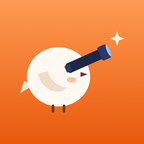
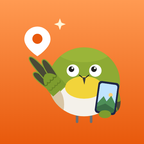
アイコンを指さすメジロの新しい絵に差し替える
Claude-Session: https://claude.ai/code/session_01Cx7faMgYK8yoKukhWgcTPh

Changed region(s): [[0.1389, 0.1667, 0.8611, 0.8611], [0.75, 0.2222, 0.8611, 0.3333], [0.3611, 0.1389, 0.4444, 0.2222]]

diff --git a/photospot/index.html b/photospot/index.html
@@ -286,7 +286,7 @@ a:focus-visible { outline: 2px solid var(--sun); outline-offset: 2px; }
     <div>
       <p class="label">個人開発 / スマホアプリ / 2026年10月〜</p>
       <div class="name">
-        <img class="appicon" src="img/icon.png" alt="撮りの目のアイコン。望遠鏡をのぞく小鳥" width="72" height="72">
+        <img class="appicon" src="img/icon.png" alt="撮りの目のアイコン。スマホを持って地図のピンを指さすメジロ" width="72" height="72">
         <h1>撮りの目<small>とりのめ</small></h1>
       </div>
       <p class="origin">名前は、上から広く見渡す「鳥の目」と「撮り」をかけたものです。地形を上から見て眺めのいい場所を探す仕組みに合わせました。</p>
